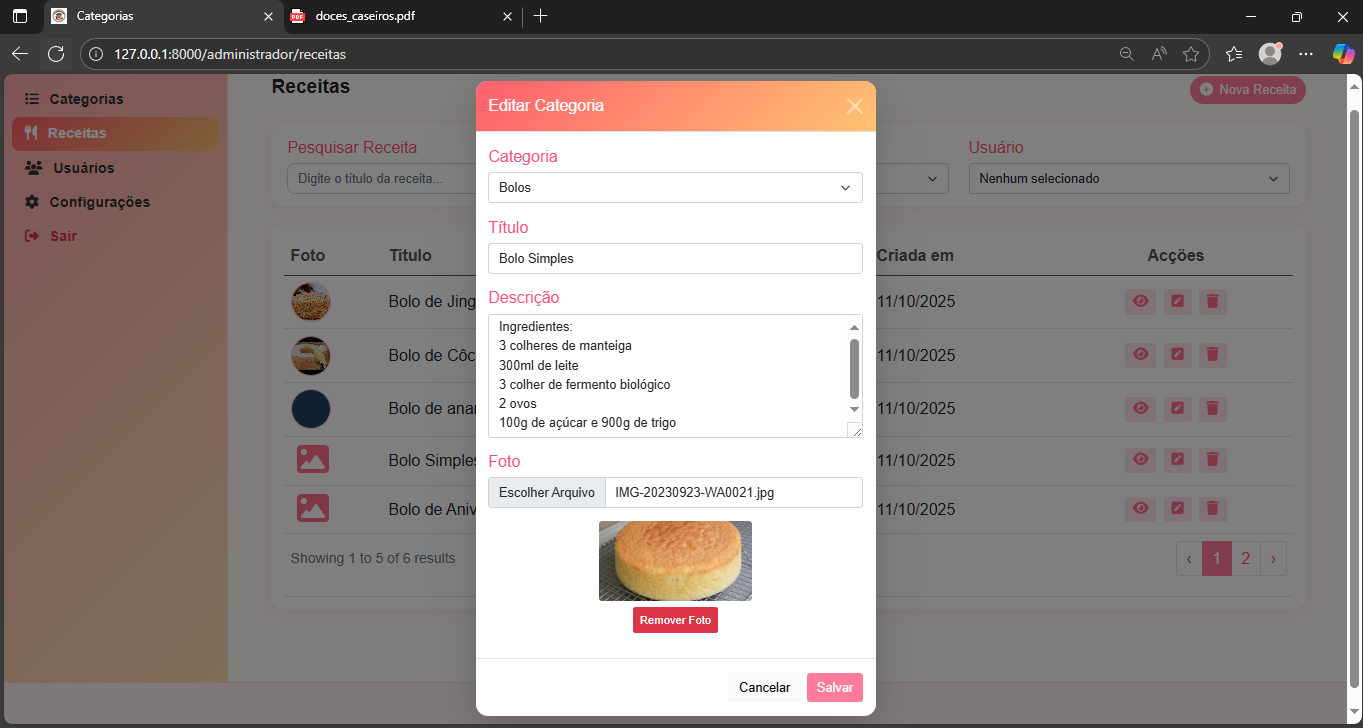
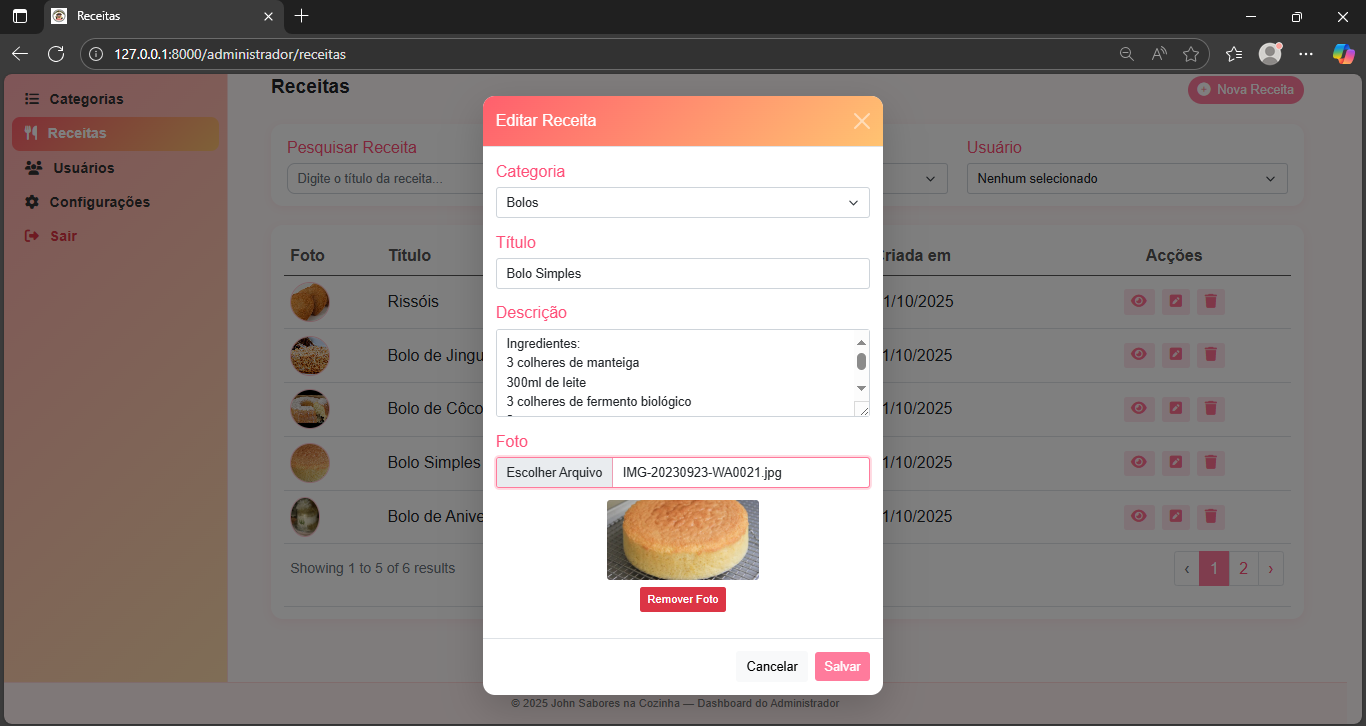
feat: add login image

diff --git a/index.html b/index.html
@@ -408,6 +408,8 @@
                   <p>Sistema De Publicação de Receitas de Cozinha</p>
                   <a href="assets/img/portfolio/johnsabores/home.png" data-gallery="portfolio-gallery-johnsabores"
                     class="glightbox preview-link"><i class="bi bi-zoom-in"></i></a>
+                  <a href="assets/img/portfolio/johnsabores/login.png" data-gallery="portfolio-gallery-johnsabores"
+                    class="glightbox"><i class="bi bi-zoom-in"></i></a>
                   <a href="assets/img/portfolio/johnsabores/cat.png" data-gallery="portfolio-gallery-johnsabores"
                     class="glightbox"><i class="bi bi-zoom-in"></i></a>
                   <a href="assets/img/portfolio/johnsabores/cat2.png" data-gallery="portfolio-gallery-johnsabores"